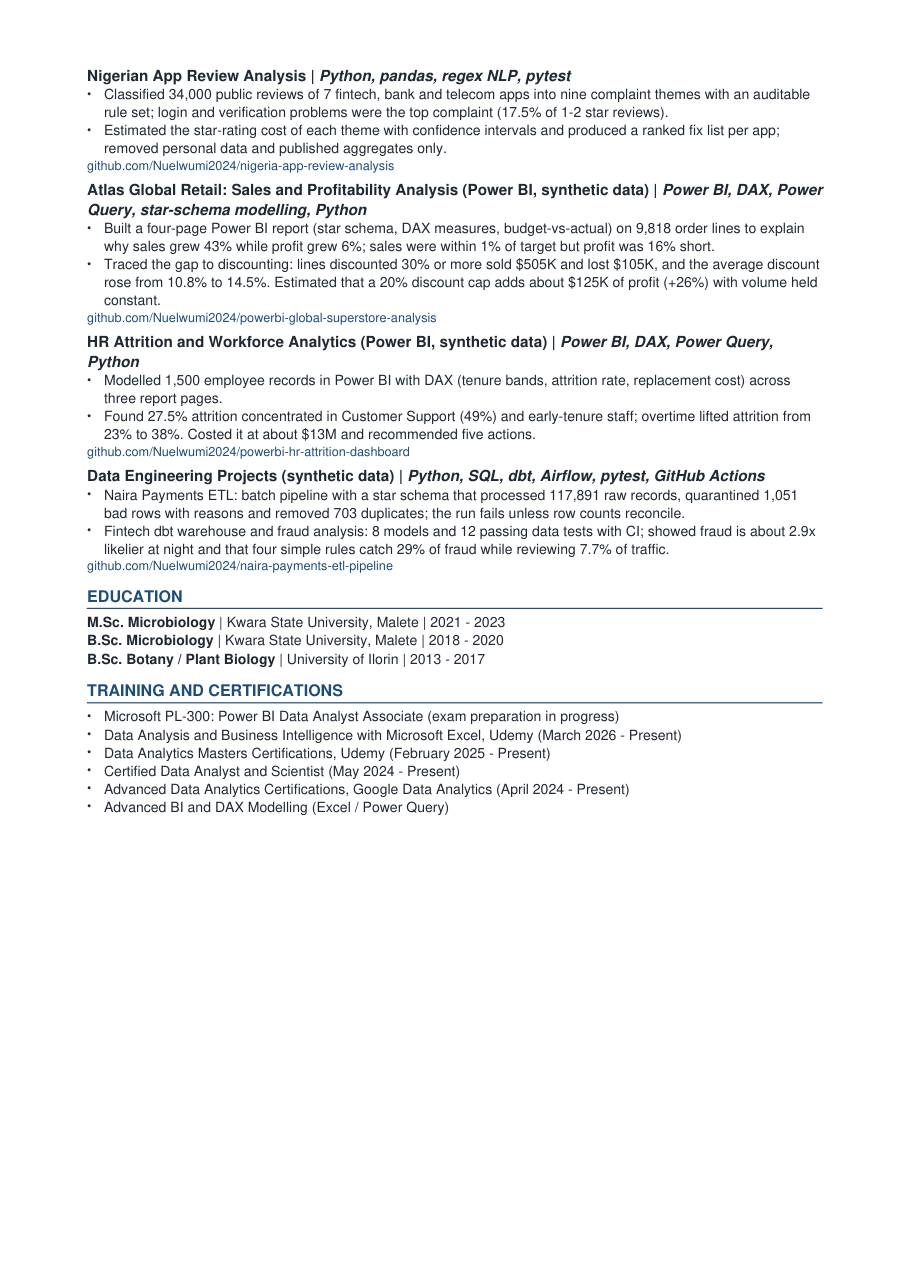
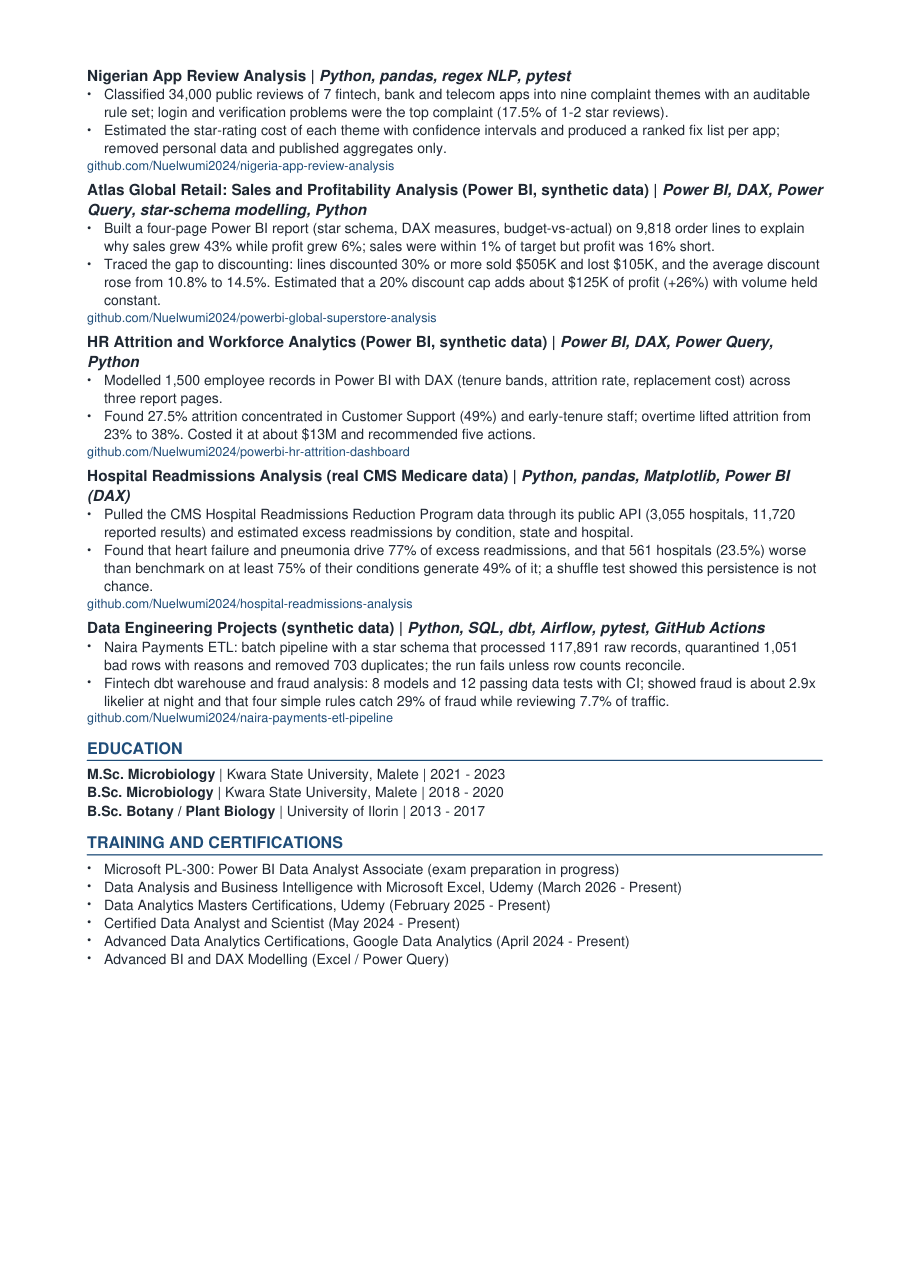
Add the hospital readmissions project to the CV

Changed region(s): [[0.0923, 0.3419, 0.8923, 0.7459], [0.7077, 0.6838, 0.7385, 0.7148]]

diff --git a/src/cv_content.py b/src/cv_content.py
@@ -17,7 +17,7 @@ SUMMARY = (
     "now working in sales analytics. M.Sc. in Microbiology, with earlier experience in laboratory and quality "
     "assurance, which built a habit of validating data, tracing deviations to root cause and reporting "
     "clearly to management. Builds end-to-end analytics projects on Nigerian data (inflation, payments, "
-    "distribution, customer reviews) and Power BI case studies in retail and HR, with tested code, stated "
+    "distribution, customer reviews) and Power BI case studies in retail and HR and a healthcare readmissions analysis on real Medicare data, with tested code, stated "
     "limitations and costed recommendations a decision-maker can act on."
 )
 
@@ -26,7 +26,7 @@ SKILLS = [
     ("Programming", "Python (pandas, NumPy, Matplotlib), R (tidyverse), pytest"),
     ("Data engineering", "ETL/ELT design, star-schema modelling, dbt, Airflow, data-quality testing, GitHub Actions CI"),
     ("Methods", "KPI and cohort analysis, forecasting, statistical testing and regression, risk metrics, root cause analysis"),
-    ("Domains", "Sales analytics, fintech (payments, fraud, lending), FMCG distribution, quality assurance"),
+    ("Domains", "Sales analytics, healthcare analytics, fintech (payments, fraud, lending), FMCG distribution, quality assurance"),
 ]
 
 EXPERIENCE = [
@@ -114,6 +114,15 @@ PROJECTS = [
         ],
     },
     {
+        "name": "Hospital Readmissions Analysis (real CMS Medicare data)",
+        "stack": "Python, pandas, Matplotlib, Power BI (DAX)",
+        "url": "github.com/Nuelwumi2024/hospital-readmissions-analysis",
+        "bullets": [
+            "Pulled the CMS Hospital Readmissions Reduction Program data through its public API (3,055 hospitals, 11,720 reported results) and estimated excess readmissions by condition, state and hospital.",
+            "Found that heart failure and pneumonia drive 77% of excess readmissions, and that 561 hospitals (23.5%) worse than benchmark on at least 75% of their conditions generate 49% of it; a shuffle test showed this persistence is not chance.",
+        ],
+    },
+    {
         "name": "Data Engineering Projects (synthetic data)",
         "stack": "Python, SQL, dbt, Airflow, pytest, GitHub Actions",
         "url": "github.com/Nuelwumi2024/naira-payments-etl-pipeline",
@@ -139,4 +148,4 @@ CERTIFICATIONS = [
     "Advanced BI and DAX Modelling (Excel / Power Query)",
 ]
 
-PORTFOLIO_LINE = "Portfolio of 10 projects with code, tests and write-ups: github.com/Nuelwumi2024"
+PORTFOLIO_LINE = "Portfolio of 11 projects with code, tests and write-ups: github.com/Nuelwumi2024"
